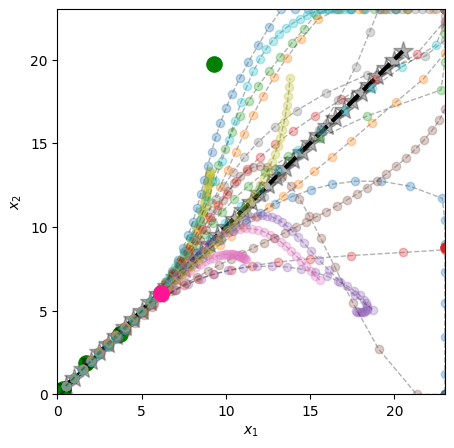
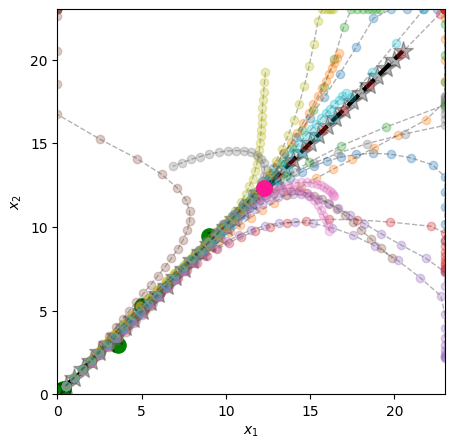
with predictive not the likelihood posterior

diff --git a/project_name/main_test.py b/project_name/main_test.py
@@ -242,10 +242,10 @@ def sample_and_optimize_posterior(optimized_posteriors, D, key, lower_bound, upp
 
             data = gpjax.Dataset(X=comb_x, y=comb_y)
             latent_dist = posterior.predict(initial_sample_points, train_data=data)
-            predictive_dist = posterior.likelihood(latent_dist)
+            # predictive_dist = posterior.likelihood(latent_dist)
 
-            sample_mus.append(predictive_dist.mean())  # TODO should this be predictive or should it be just posterior, if latter then do we need the points?
-            sample_stds.append(predictive_dist.stddev())
+            sample_mus.append(latent_dist.mean())  # TODO should this be predictive or should it be just posterior, if latter then do we need the points?
+            sample_stds.append(latent_dist.stddev())
 
         return all_xs, all_ys, exe_path, jnp.array(sample_mus), jnp.array(sample_stds)
 
